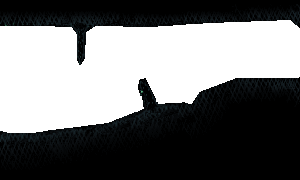
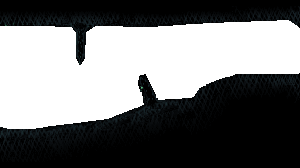
ur mum lol

diff --git a/src/cave_scene.ts b/src/cave_scene.ts
@@ -1,6 +1,10 @@
 import "phaser";
-
+import * as Globals from './globals';
 export const menuSceneKey = "MenuScene";
+
+let wall: Phaser.GameObjects.Image;
+
+
 
 export function cave():
     | Phaser.Types.Scenes.SettingsConfig
@@ -13,23 +17,33 @@ export function cave():
             this.load.image("walls", "/img/backrounds/walls.png");
 
             // REF: https://newdocs.phaser.io/docs/3.60.0/Phaser.Loader.LoaderPlugin#spritesheet
-            this.load.spritesheet(
-                "backround",
-                "/img/backrounds/backround.png",
-                { frameWidth: 300, frameHeight: 168 }
-            );
 
             // NOTE: Spritesheet only for identially-sized images; Tilemap CSV might also be
             //       Atlas JSON might be what you want to use here, e.g.
             //
-            //      this.load.atlas("sloth", "/img/sloth/spritesheet.png", "/img/sloth/spritesheet.json");
+            this.load.atlas("sloth", "/img/sloth/spritesheet.png", "/img/sloth/spritesheet.json");
             //
             // REF: https://newdocs.phaser.io/docs/3.60.0/Phaser.Loader.LoaderPlugin#atlas
-            // FIXME: this.load.spritesheet("sloth", "/img/sloth/spritesheet.png");
         },
         create() {
-            this.add.image(400, 300, "walls");
+            //strech without distortion to fit screen
+            this.scale.displaySize.setAspectRatio(Globals.WIDTH / Globals.HEIGHT);
+            this.scale.refresh();
+
+            //cave walls/floors
+            wall = this.add.image(Globals.WIDTH / 2, Globals.HEIGHT / 2, "walls");
+
+            //player drawing from atlas
+            this.add.image(30, 105, 'sloth', 'jump1');
+
+
         },
-        update() {},
+
+
+        update() {
+            //detects keyboard inputs
+            let cursors = this.input.keyboard.createCursorKeys();
+
+        },
     };
 }

diff --git a/src/main.ts b/src/main.ts
@@ -6,8 +6,8 @@ const GameConfig: Phaser.Types.Core.GameConfig = {
     title: "Quest Quest",
     url: "https://github.com/casperhm/quest-quest",
     version: "2.0",
-    width: 800,
-    height: 600,
+    width: 300,
+    height: 168,
     type: Phaser.AUTO,
     parent: "app",
     scene: [cave()],
@@ -21,8 +21,10 @@ const GameConfig: Phaser.Types.Core.GameConfig = {
             debug: false,
         },
     },
-    backgroundColor: "#000000",
-    render: { pixelArt: false, antialias: true },
+
+    transparent: true,
+
+    render: { pixelArt: false, antialias: false },
     scale: {
         mode: Phaser.Scale.FIT,
         autoCenter: Phaser.Scale.CENTER_BOTH,

diff --git a/src/style.css b/src/style.css
@@ -8,11 +8,21 @@ body {
     -webkit-font-smoothing: antialiased;
     -moz-osx-font-smoothing: grayscale;
     color: #ff3c00;
-    height: 98%;
-    width: 98%;
-    margin: auto;
+    position: absolute;
+    top: 0;
+    left: 0;
+    right: 0;
+    bottom: 0;
 }
+
+
 
 .window-controls {
     margin-bottom: 0.5em;
+}
+
+canvas {
+    background-image: url('backrounds/backround.gif');
+    background-repeat: no-repeat;
+    background-size: cover;
 }

diff --git a/src/globals.ts b/src/globals.ts
@@ -1,0 +1,2 @@
+export const WIDTH = 300;
+export const HEIGHT = 168;
